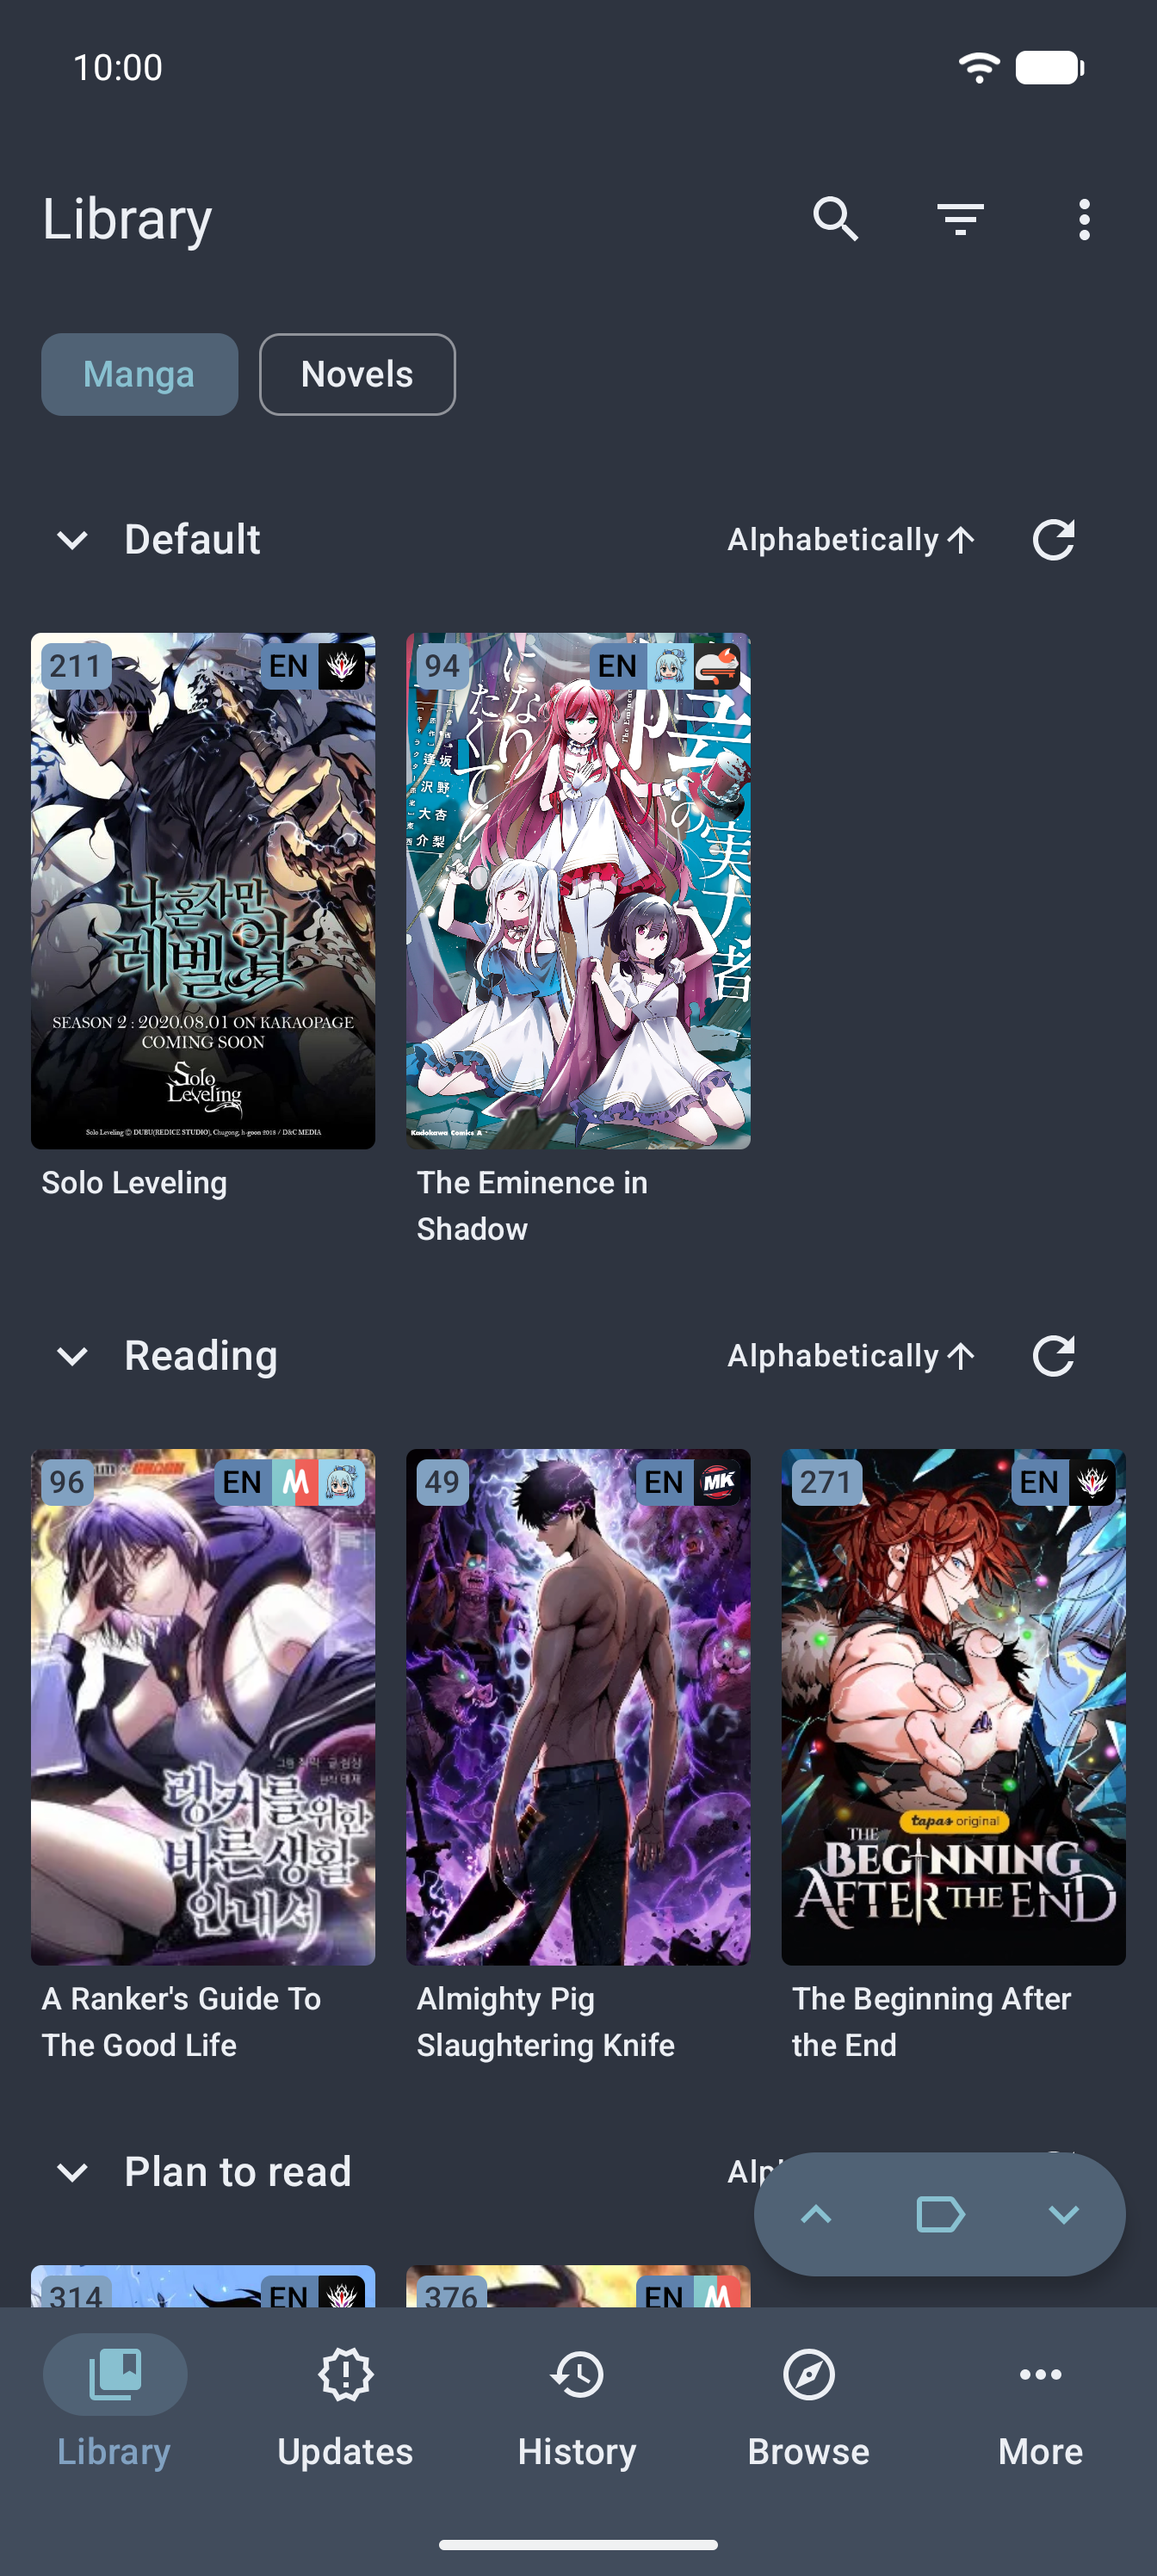
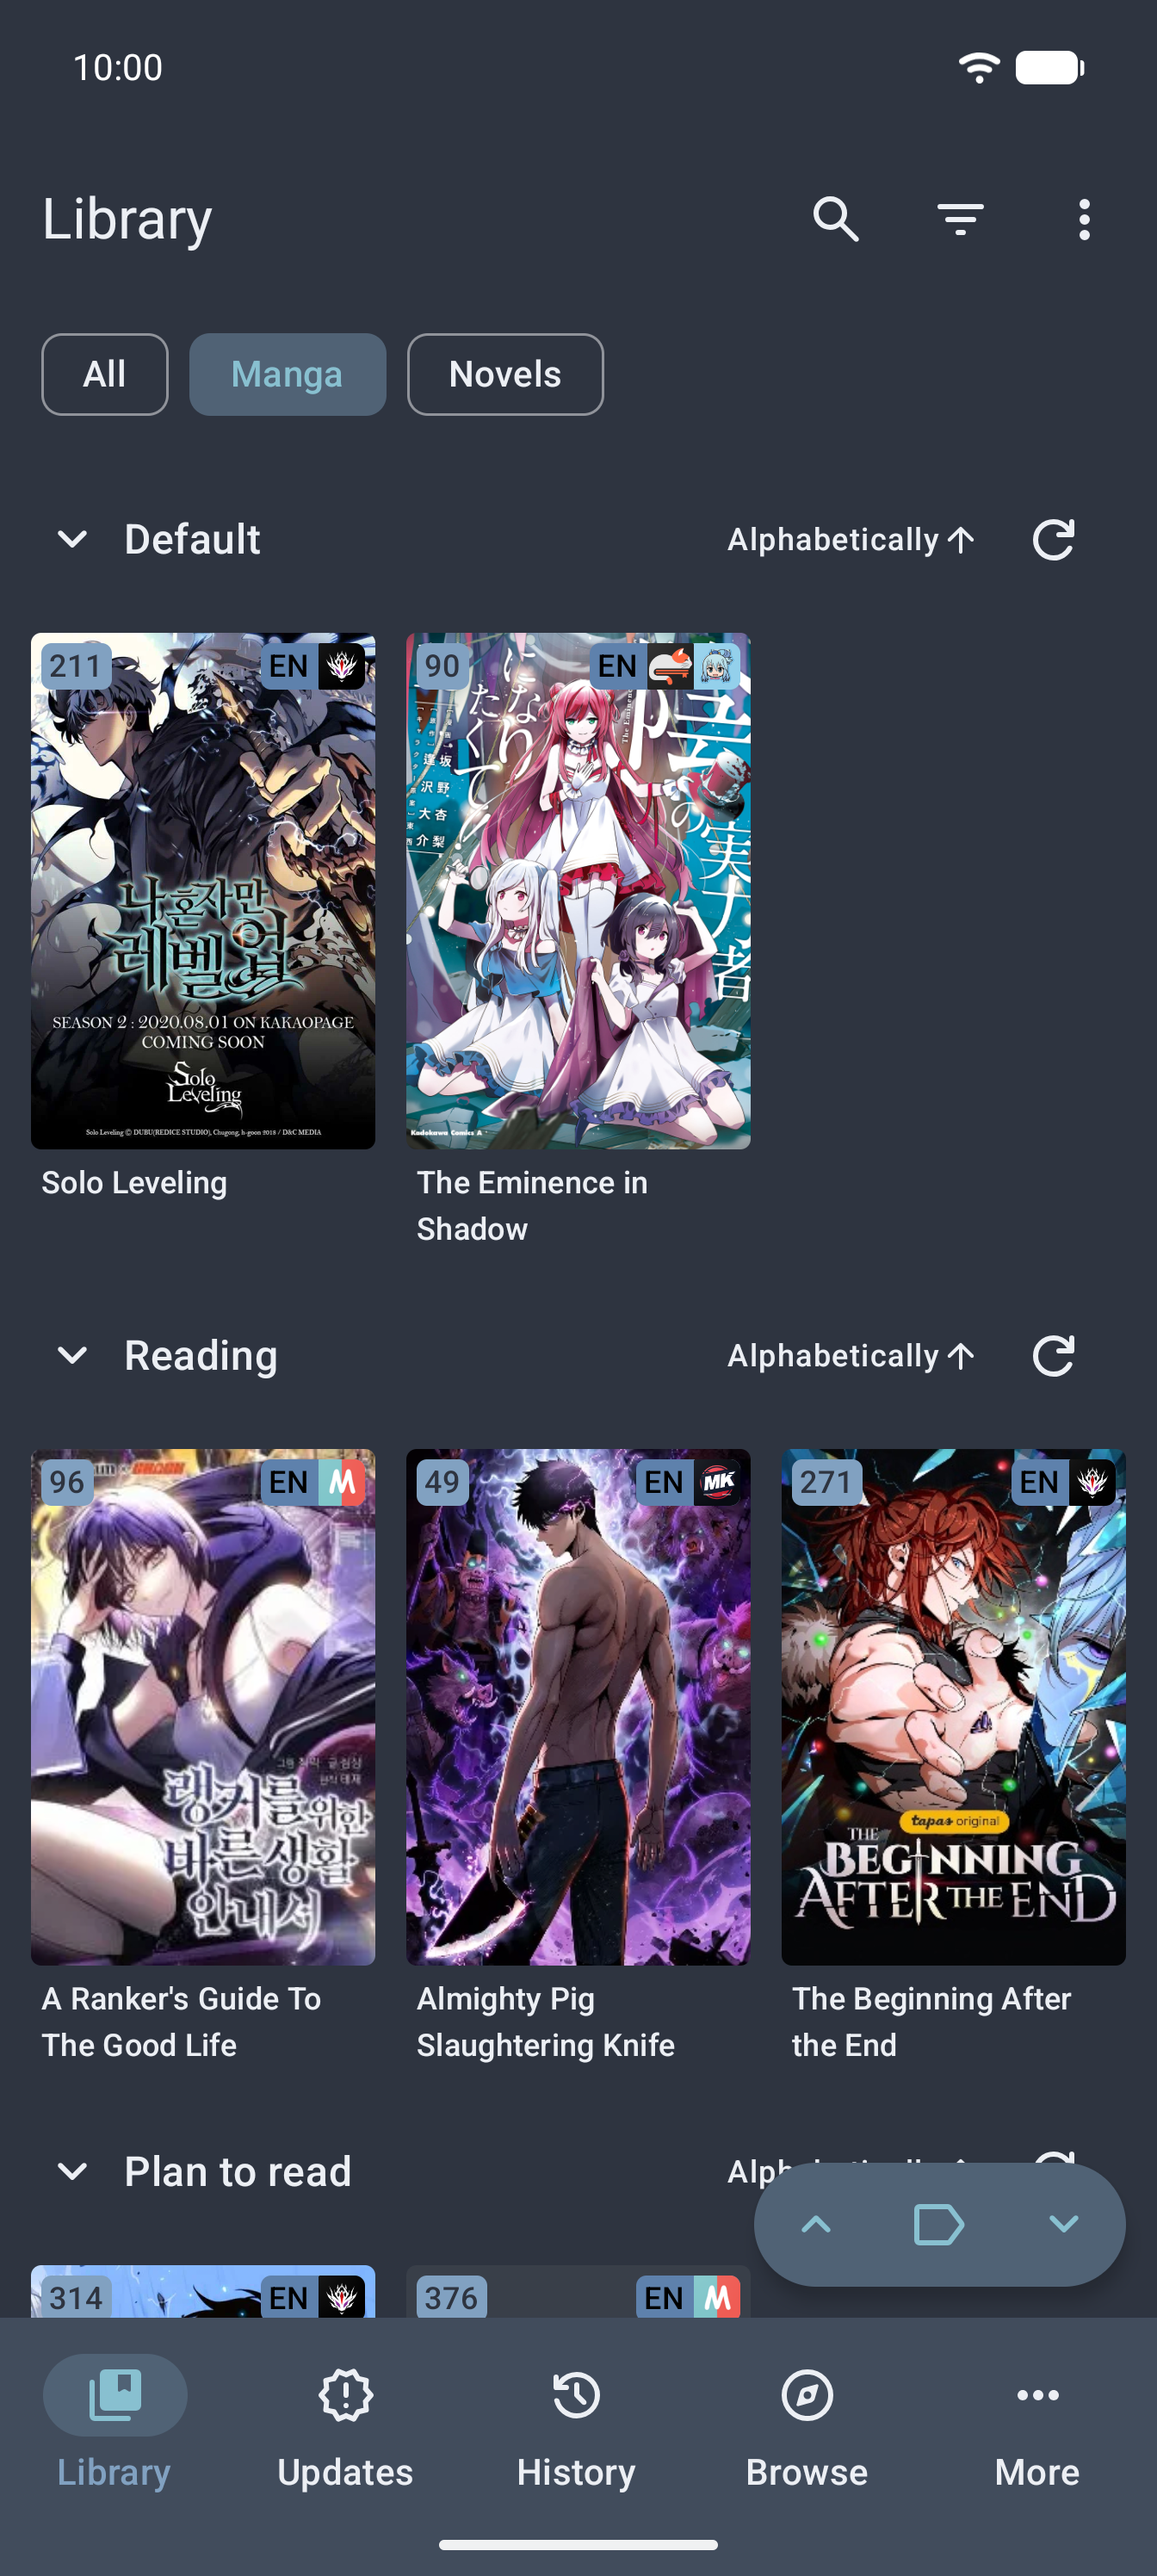
docs(readme): refresh the showcase with the current app
The README's animated banner showed screens from an older build. It is
recaptured from the same demo backup on today's app, panel for panel.

- All nine stills retaken: library, details, readers, History and the
  tabbed library
- The guide carries the clean status bar recipe itself, and captures
  through the benchmark build so a debug library is never touched

diff --git a/docs/dev/readme-showcase.md b/docs/dev/readme-showcase.md
@@ -22,7 +22,8 @@ Everything needed to rebuild lives in `.github/readme-images/showcase/`:
 - `make-frames.sh` - composites each still into the frame, rounds the screen corners, writes `framed/`.
 - `make-webp.sh` - builds the transparent animated WebP from `framed/` into `../screens.webp`.
 
-`framed/` and the `_capture/` scratch folder are git-ignored (regenerated, not committed).
+`framed/` and the `.github/readme-images/_capture/` scratch folder are git-ignored (regenerated, not
+committed).
 
 ### Rebuild from the existing stills (no device needed)
 
@@ -46,15 +47,35 @@ Captures are driven over `adb` against a **Pixel 10 Pro XL** AVD (Android Studio
 The screenshots are just the device framebuffer (1344x2992); the frame is composited later, so the
 emulator's own skin doesn't matter for the output.
 
-1. **AVD**: 1344x2992, density 480, the `pixel_10_pro_xl` skin. Install the debug app
-   (`app.reikai.dev`) and restore a backup so the library/history have content.
-2. **Clean status bar** via SystemUI demo mode (re-broadcast before each capture, it can lapse). See
-   the `clean-status-bar-capture` note in the agent memory for the full recipe; the key flags:
-   `adb shell settings put global sysui_demo_allowed 1` then the demo broadcasts with
-   `network ... wifi show level 4 fully true` (drops the no-internet `!`) and `notifications visible false`.
+1. **AVD**: 1344x2992, density 480, the `pixel_10_pro_xl` skin. Build `:app:assembleBenchmark` and
+   install it: it is `app.reikai.benchmark`, so it sits beside a debug build without touching its
+   library, and it renders as a release build does. Restore the demo backup, ticking the repos on the
+   Restore screen so its extensions and plugins come back. Before every tap, check the demo app is in
+   front (`dumpsys activity activities | grep topResumedActivity`): Back out of its last screen lands in
+   whatever app was open before.
+2. **Clean status bar** via SystemUI demo mode. Broadcast again right before each capture, since it can
+   lapse:
+
+   ```
+   adb shell settings put global sysui_demo_allowed 1
+   adb shell am broadcast -a com.android.systemui.demo -e command enter
+   adb shell am broadcast -a com.android.systemui.demo -e command clock -e hhmm 1000
+   adb shell am broadcast -a com.android.systemui.demo -e command battery -e level 100 -e plugged false
+   adb shell am broadcast -a com.android.systemui.demo -e command network -e wifi show -e level 4 -e fully true
+   adb shell am broadcast -a com.android.systemui.demo -e command network -e mobile hide
+   adb shell am broadcast -a com.android.systemui.demo -e command notifications -e visible false
+   ```
+
+   `-e fully true` drops the no-internet `!`. Demo mode does not hide another app's notification icon,
+   so dismiss any notification first. A pending extension update badges the Browse tab: remove that
+   repo in the demo app, then trust the extensions the library uses one by one under Extensions.
+   Leave with `-e command exit` when done.
 3. **Theme**: app appearance set to **follow system**, then toggle with `adb shell cmd uimode night yes|no`
    (dark for panels 1-3 and 5, plus both for the panel-4 history light/dark pair).
 4. **Scrollbar**: wait ~3s after any scroll before `screencap` so the fading scrollbar is gone.
+   Panels 1 and 5 use the library's single list and tabs (Display, **Show all categories in one
+   list**), and panel 4 the separate History tab (Appearance, **Combine Updates and History** off).
+   A cover the source can no longer serve is migrated or removed in the demo app, never the backup.
 5. Capture the 9 states into `stills/` with these exact names (the scripts depend on them):
    `p1a_manga_lib`, `p1b_novel_lib`, `p2a_manga_detail`, `p2b_novel_detail`, `p3a_manga_reader`,
    `p3b_novel_reader`, `p4a_history_all_light`, `p4b_history_all_dark`, `p5a_manga_tabbed`.
